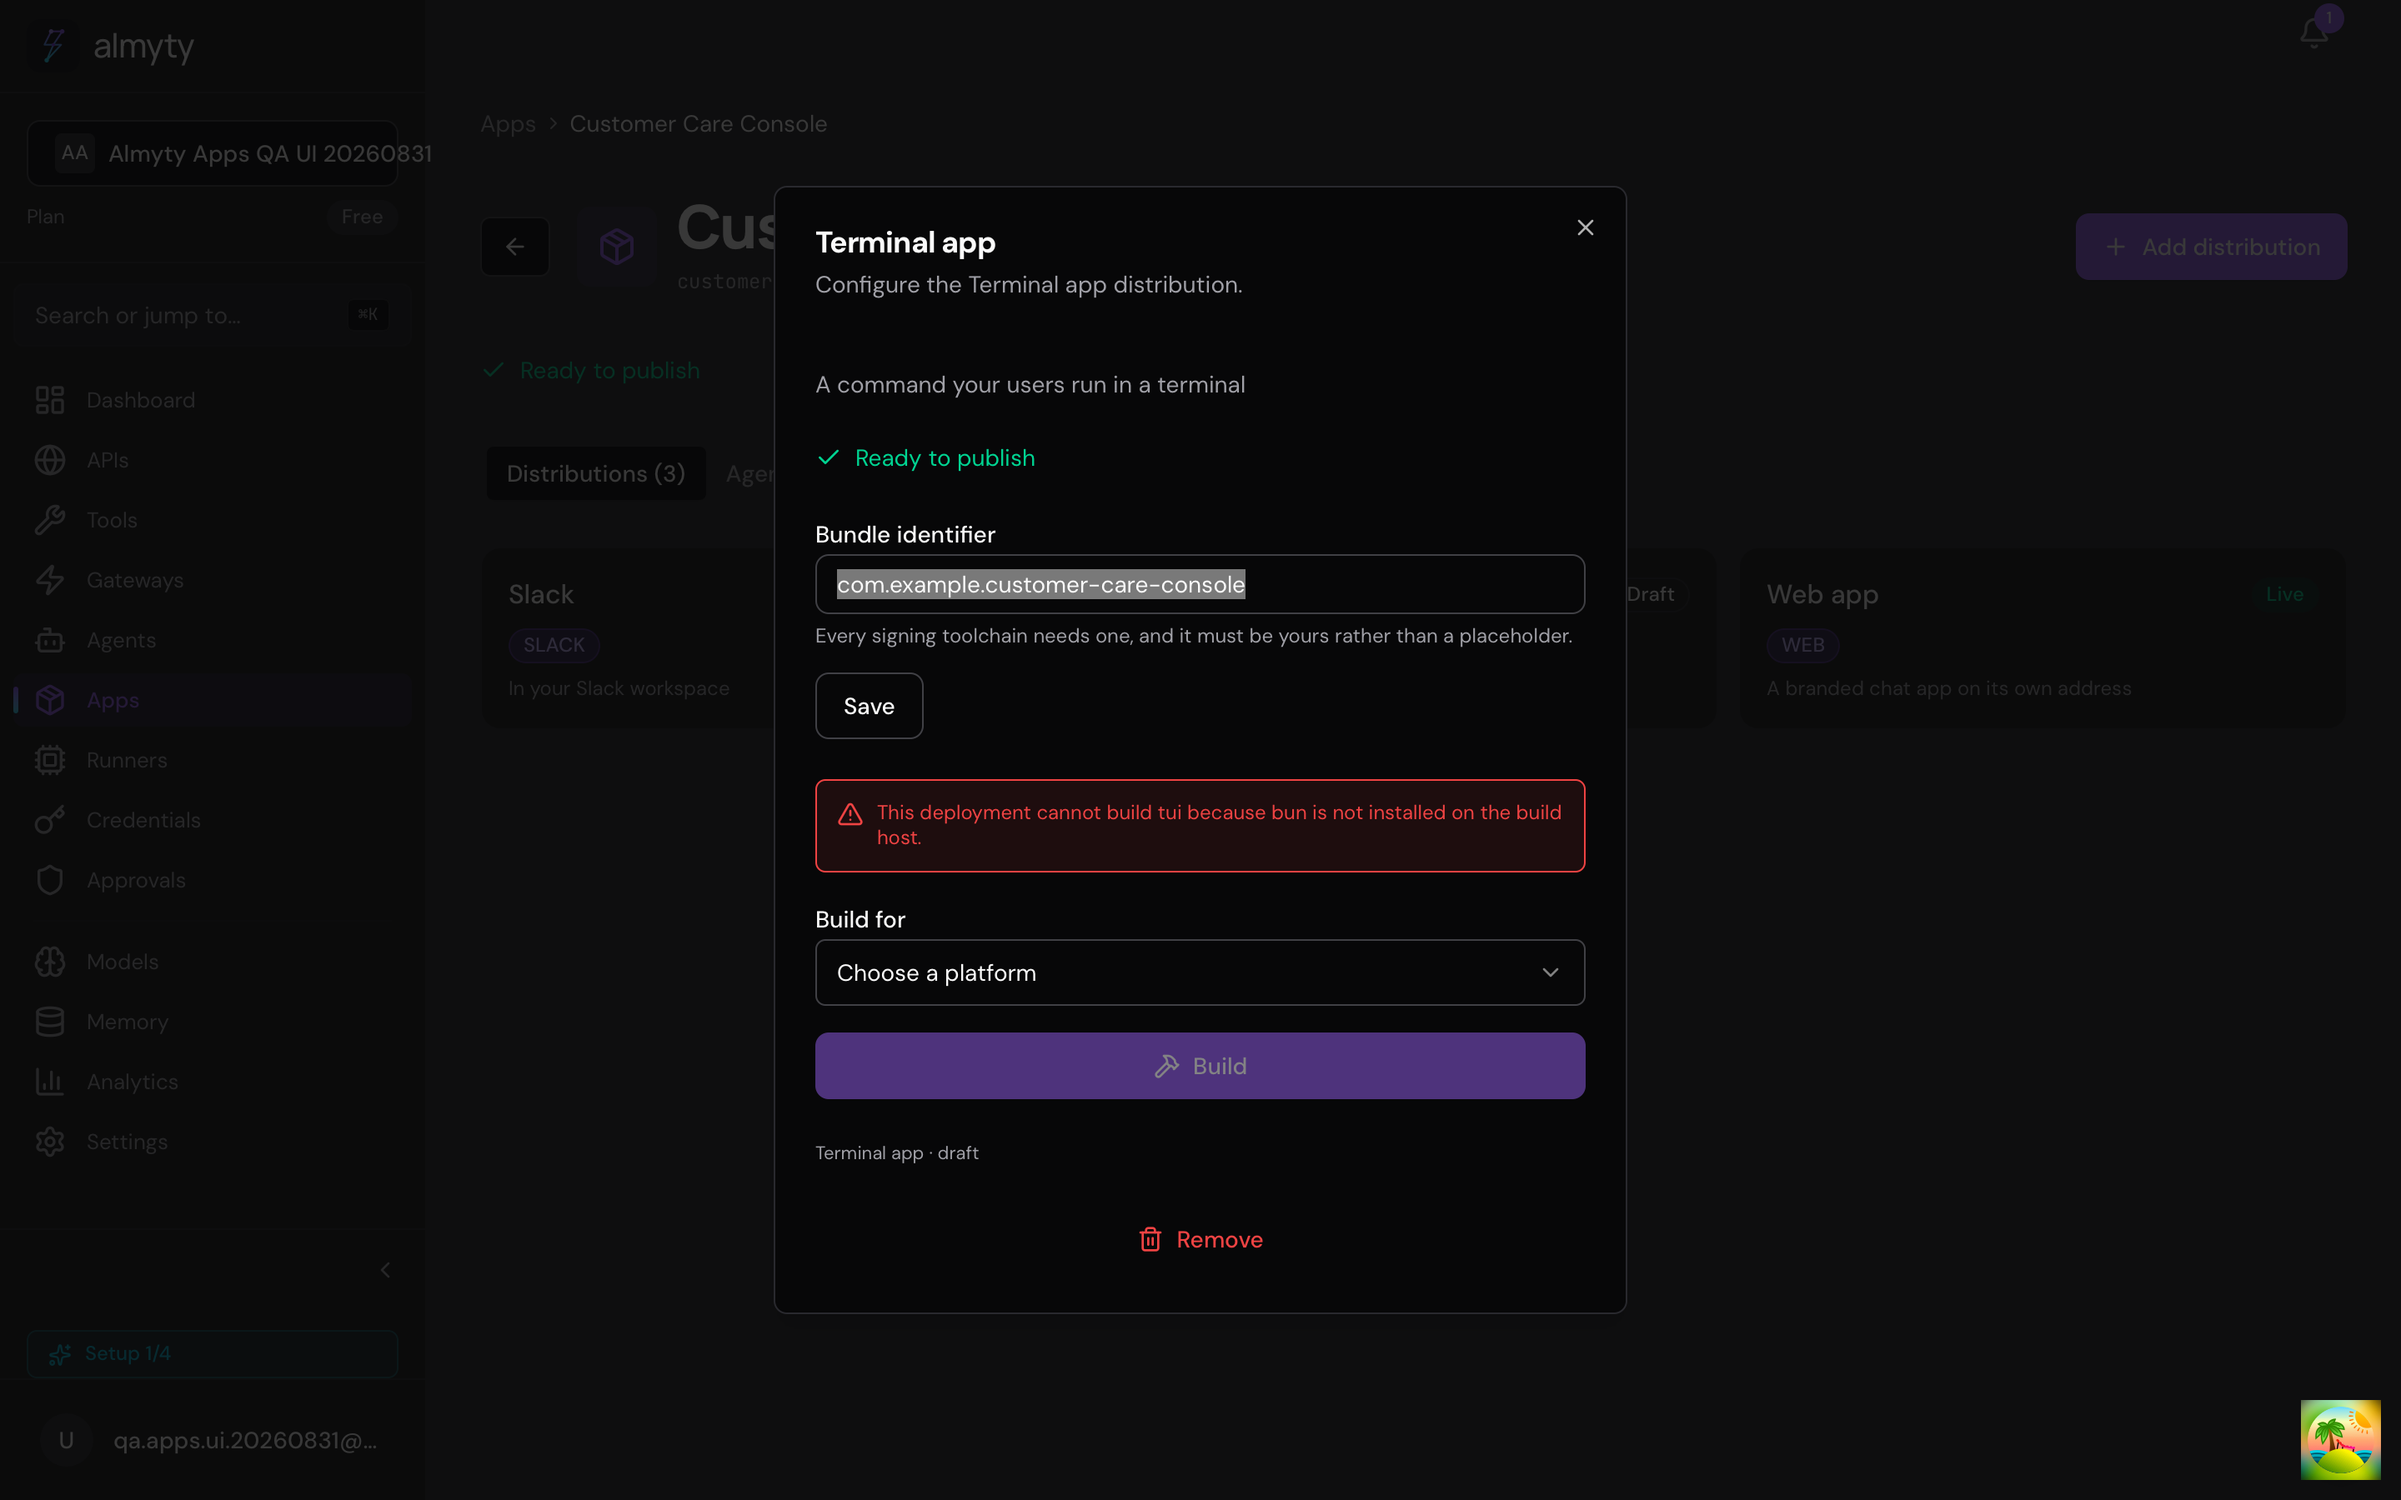
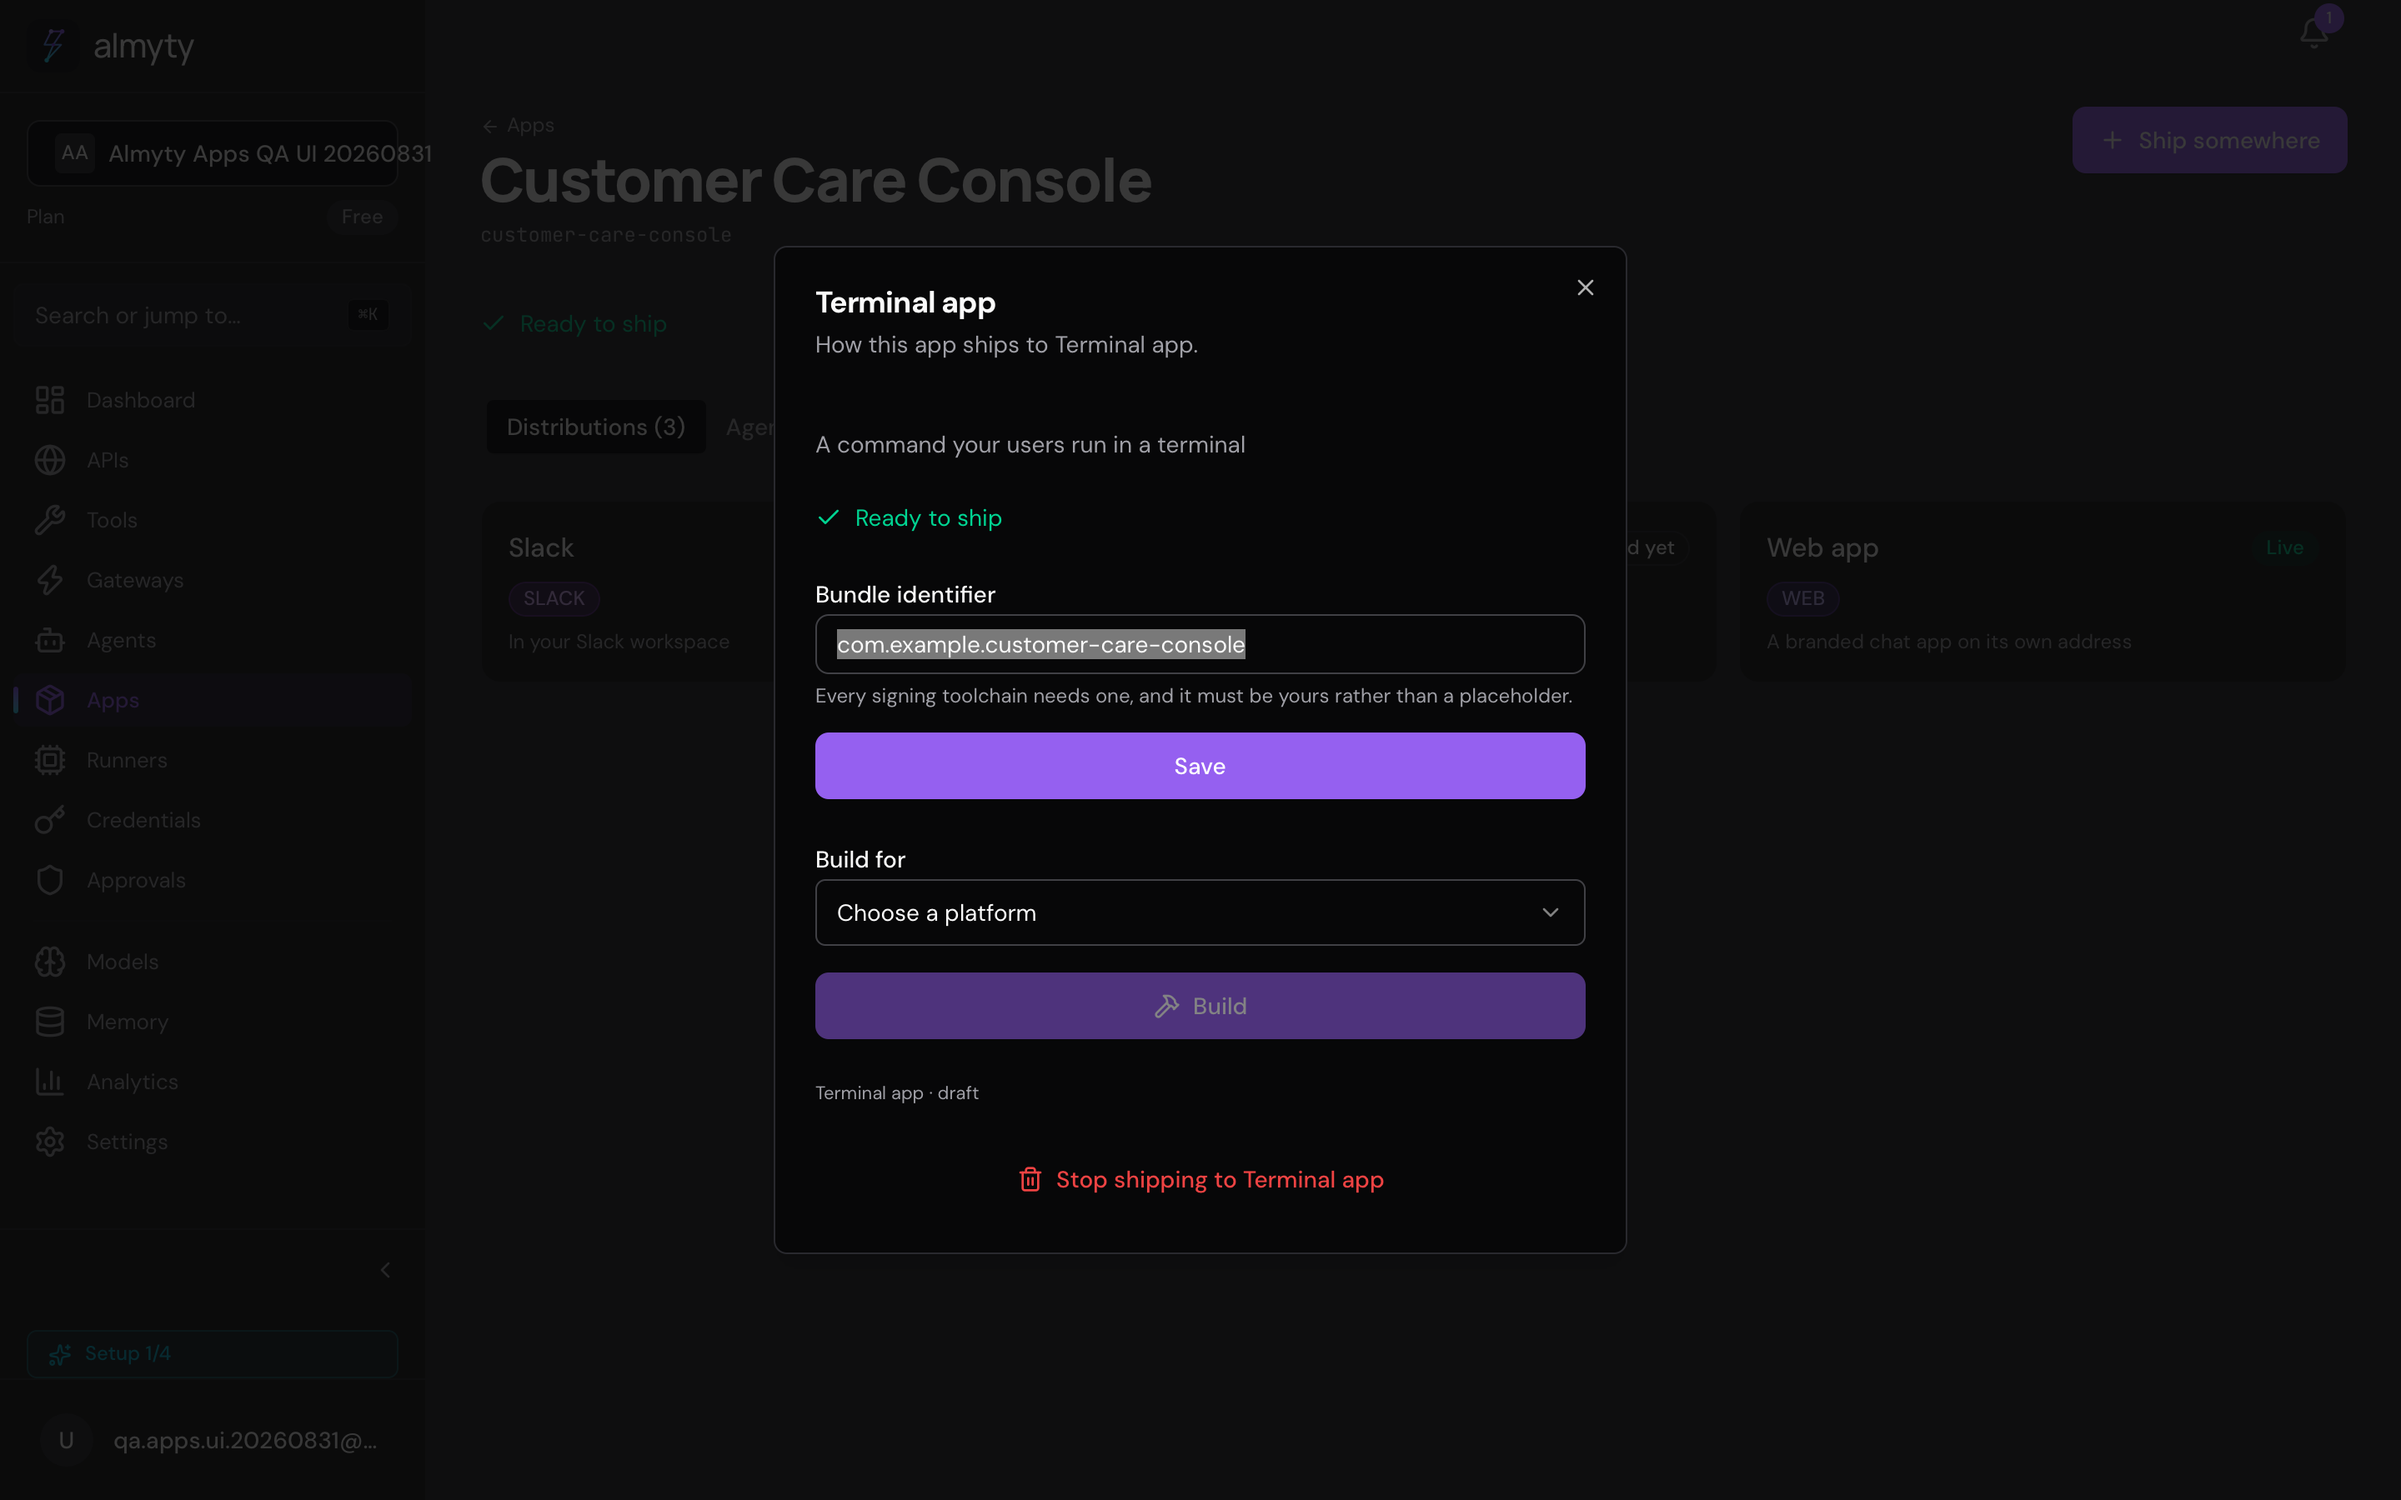
update Terminal build screenshot now that bun is on staging
The bun-missing refusal is gone. Staging still cannot compile a
Terminal app because APP_BUILD_CLIENT_ENTRY / @almyty/chat is not
on the API image; that is a separate finding.

diff --git a/docs/agent-factory.md b/docs/agent-factory.md
@@ -195,7 +195,7 @@ Desktop builds download the pinned Electron release, so the host needs outbound 
 
 `GET /apps/:slug/distributions/:target/capabilities` answers both before anyone presses Build, and the panel disables the button when the host cannot compile and warns separately when it can compile but not sign. Those are different problems with different fixes, so they are said separately.
 
-![A terminal distribution refusing to build because Bun is absent from the staging build host](../docs-site/public/screenshots/apps-build-capabilities.png)
+![A Terminal app distribution that can build now that bun is on the host](../docs-site/public/screenshots/apps-build-capabilities.png)
 
 The API image should remain lean. The recommended production layout is a dedicated build worker image, with an eventual option to isolate each build in an ephemeral Kubernetes Job. The trade-offs, security boundary, and rollout are in [Builder image topology](./builder-image-topology.md).
 
